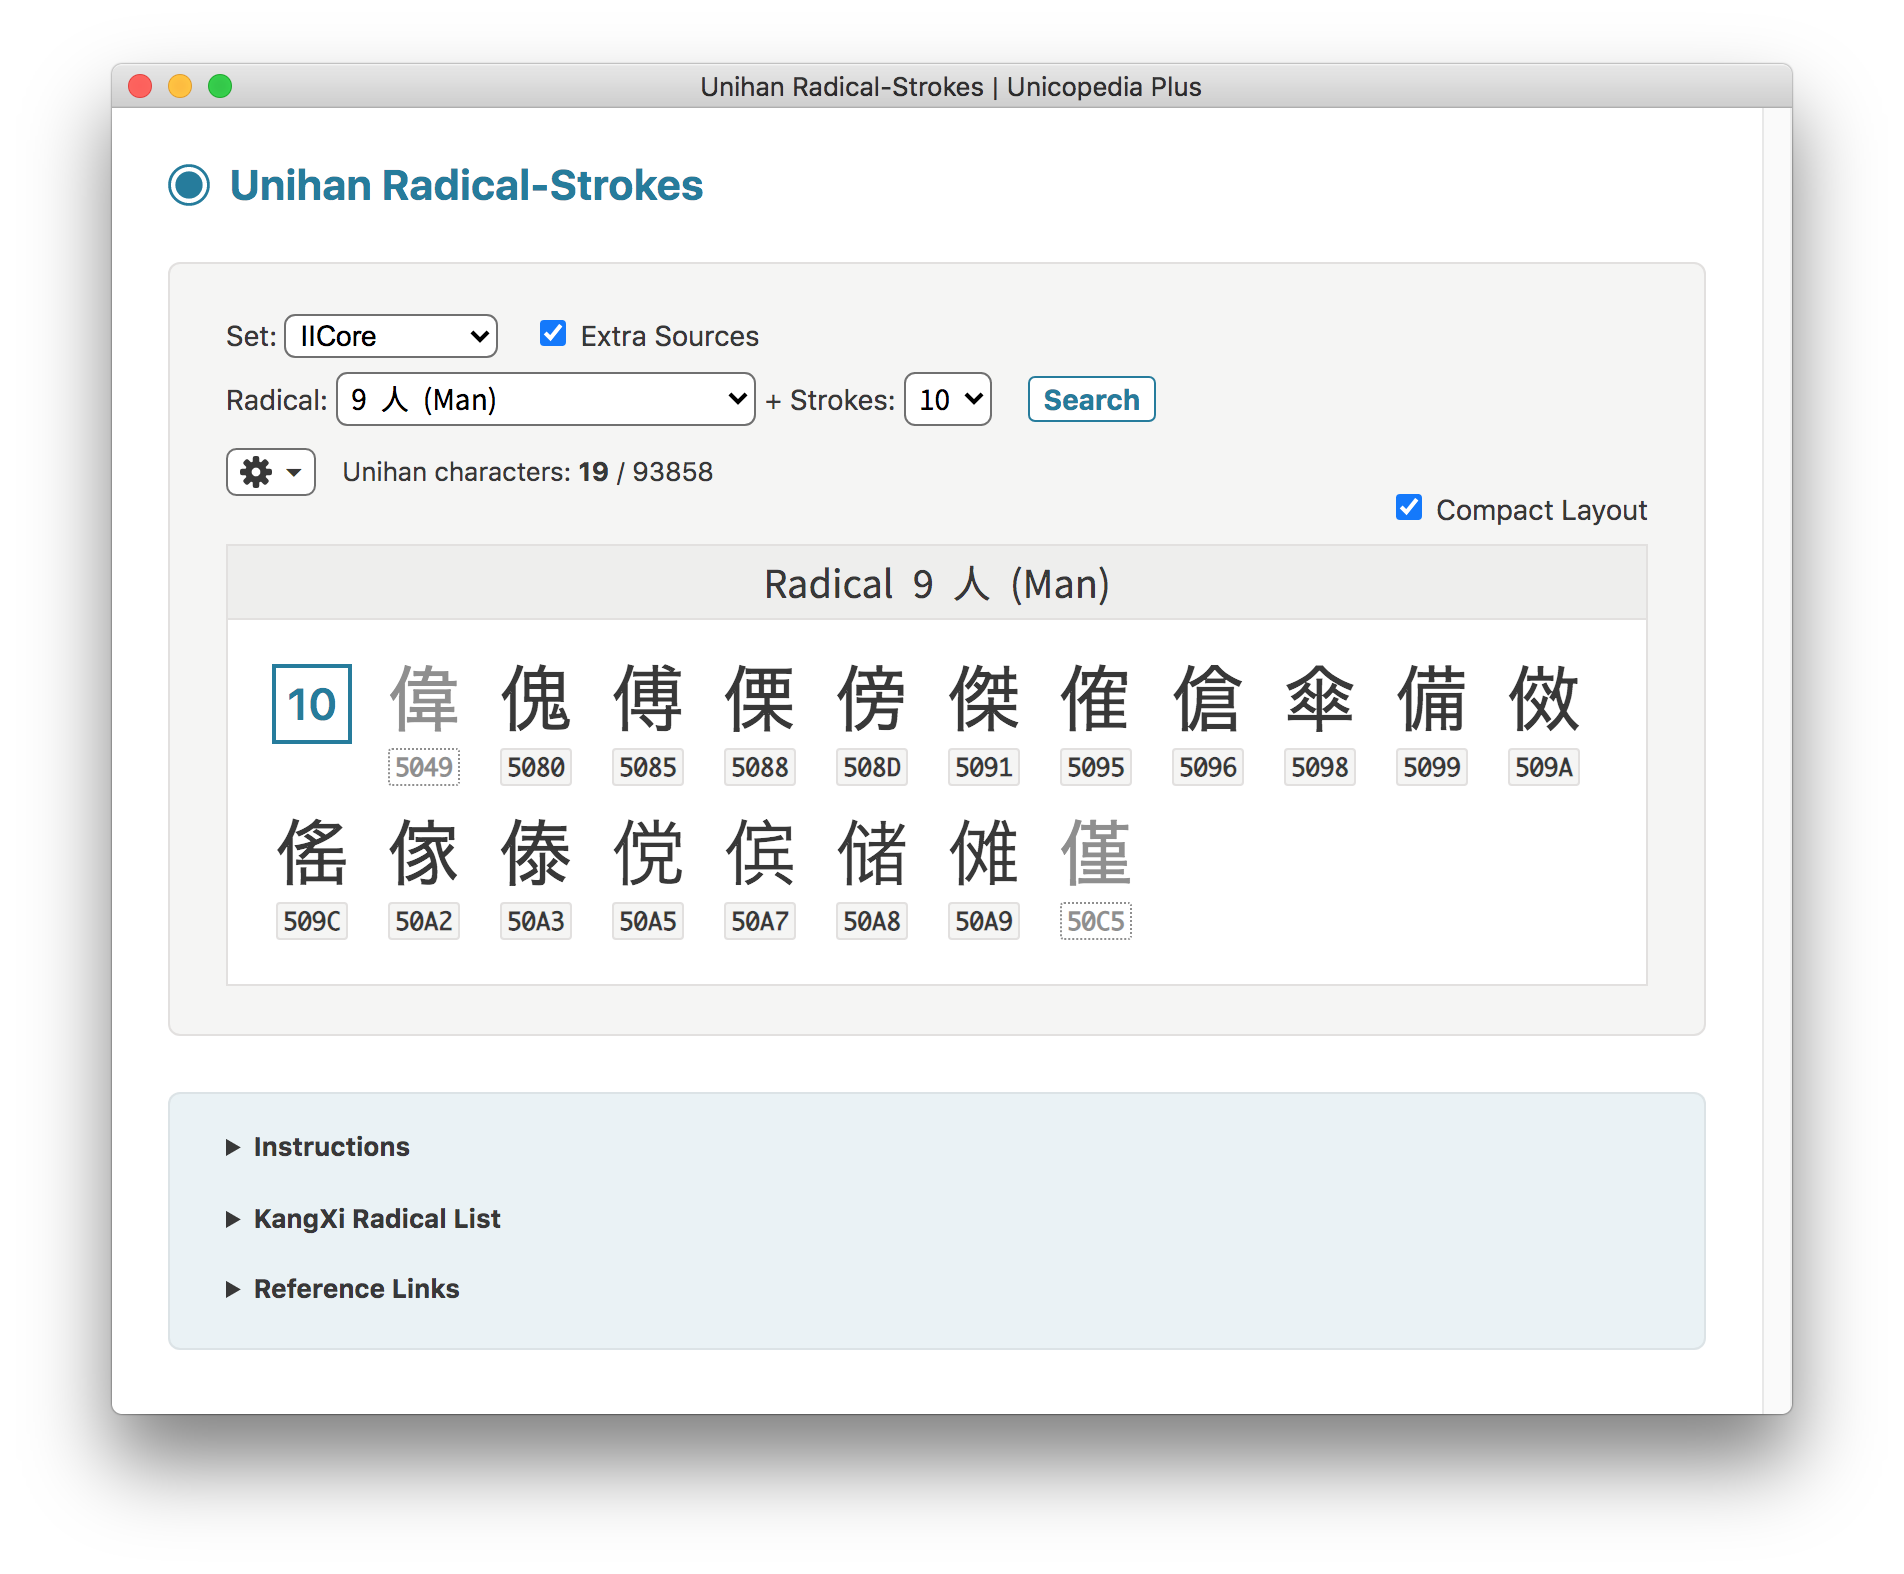
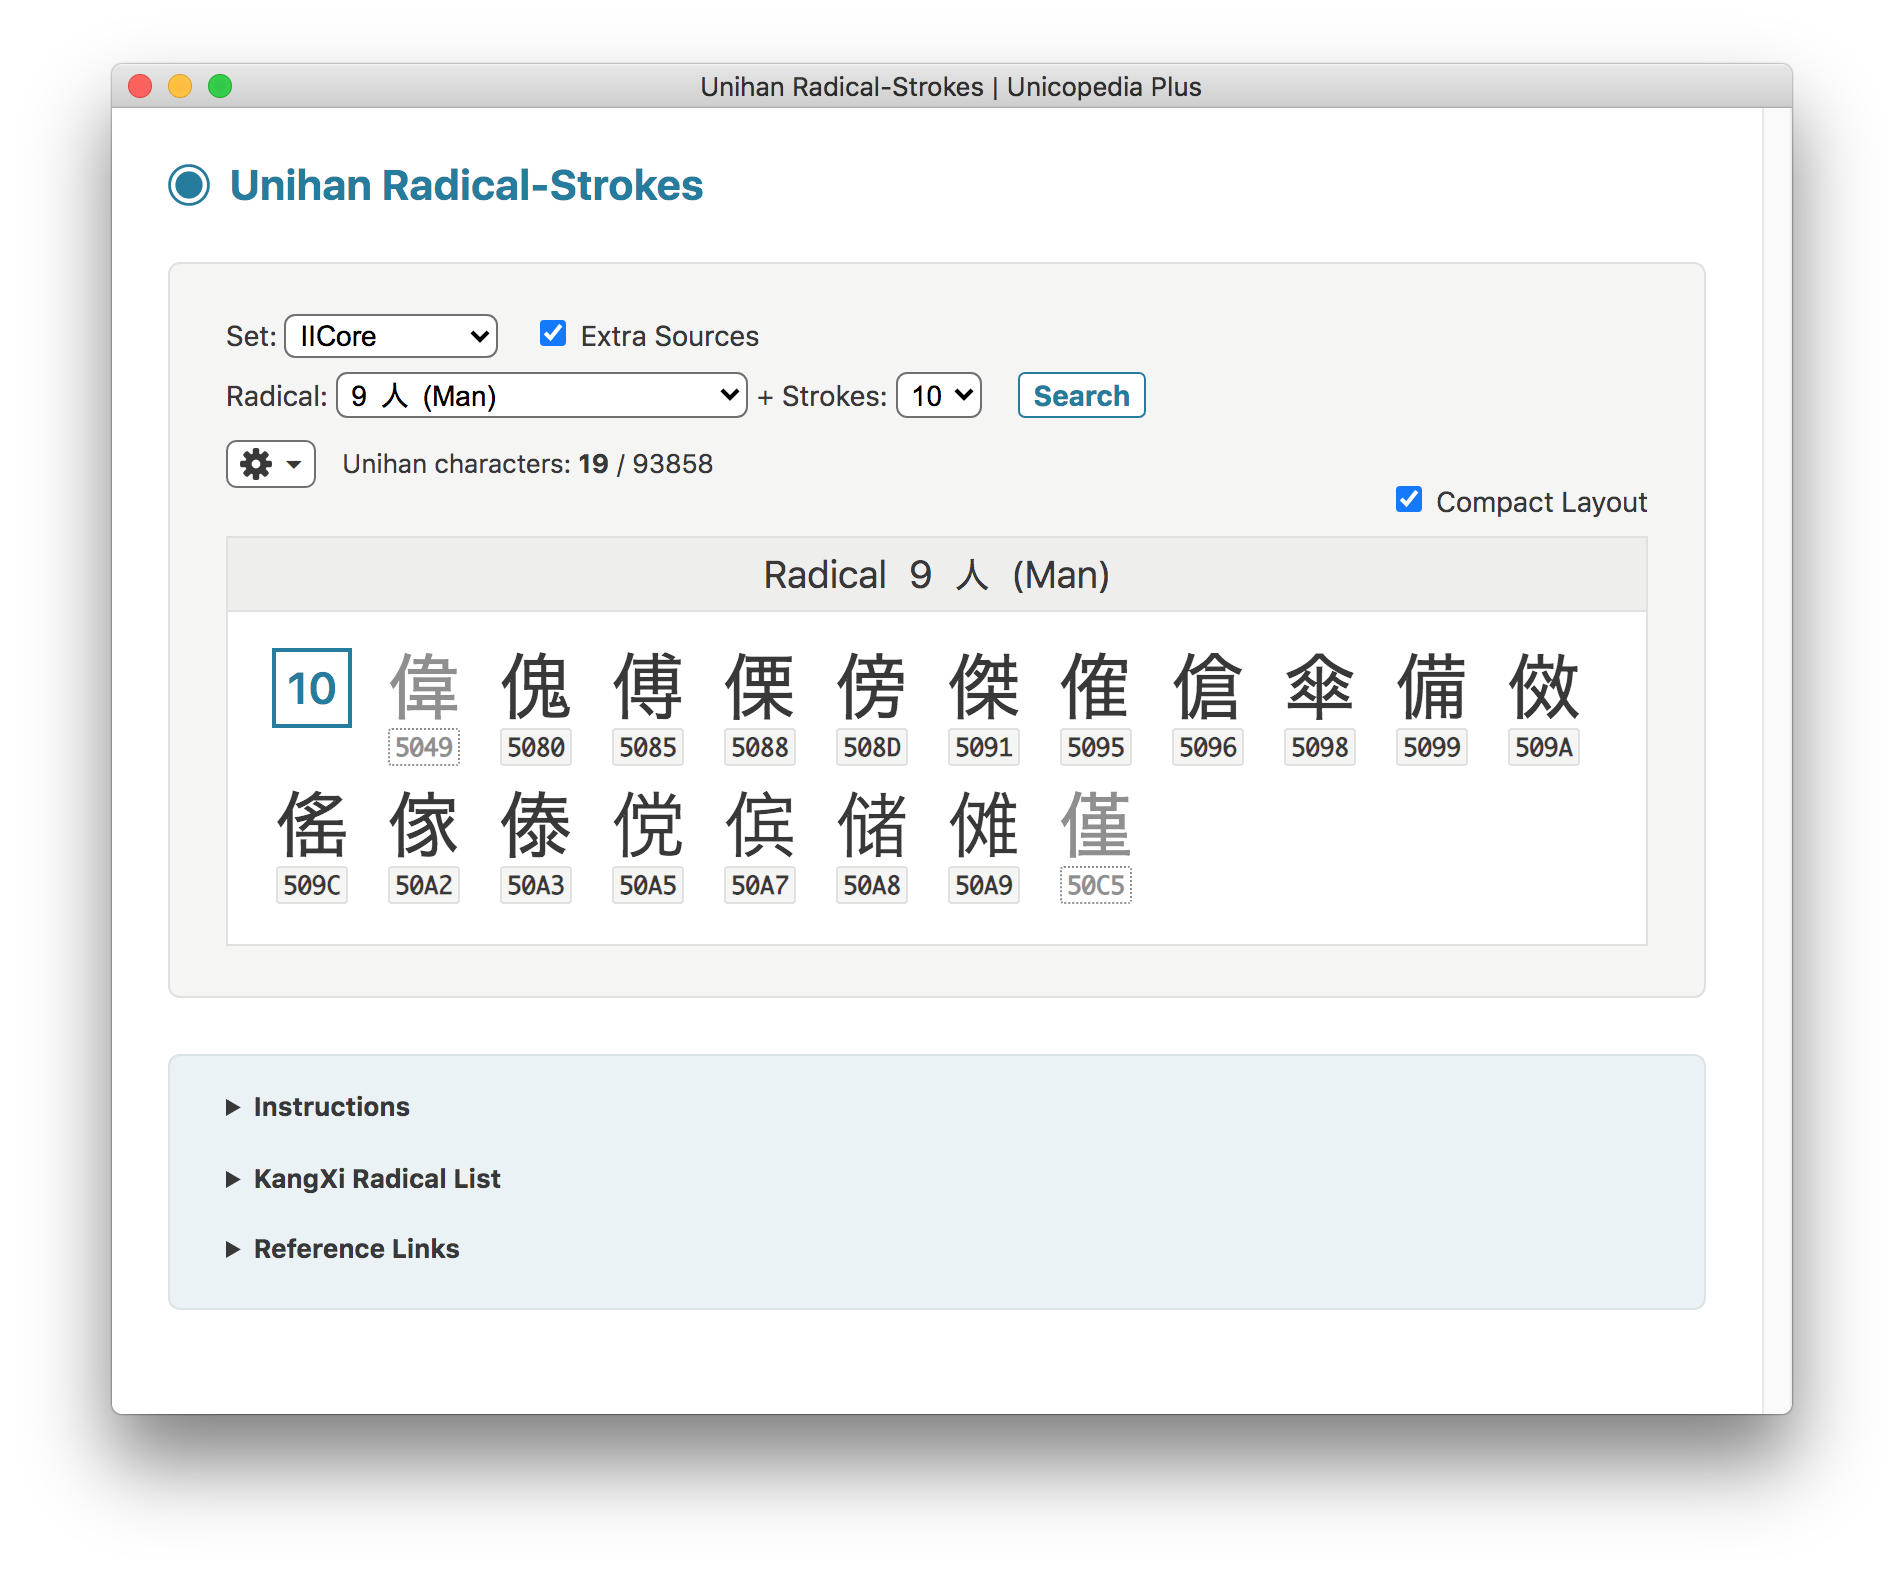
Updated app to 10.4.1

diff --git a/renderer/units/Unihan Variants/import.html b/renderer/units/Unihan Variants/import.html
@@ -39,9 +39,9 @@
                 <li>The <strong>Unihan Variants</strong> utility displays all the variants of a given Unihan character.</li>
                 <li>Any Unihan character can be entered in the <kbd>Unihan</kbd> input field either as a character or a code point. Click on the <kbd>Look Up</kbd> button to display the variants.</li>
                 <li>Previously looked up characters are kept in a history stack; use the <kbd>Alt</kbd>+<kbd>↑</kbd> and <kbd>Alt</kbd>+<kbd>↓</kbd> keyboard shortcuts to navigate through them up and down inside the input field. Alternatively, you can also use the <kbd>Lookup&nbsp;History&nbsp;▾</kbd> pop-up menu to automatically look up a specific character.</li>
-                <li>Click the <kbd>Extra Variants</kbd> checkbox to include the Yasuoka variants as well; otherwise, only the standard Unihan variants are listed.</li>
-                <li>Click the <kbd>Detailed Relations</kbd> checkbox to make use of a directed labeled graph to display variant relations; otherwise, a basic undirected graph is used instead.</li>
-                <li>Click the <kbd>Code Points</kbd> checkbox to display as well the code point of each Unihan character of the graph.</li>
+                <li>Click on the <kbd>Extra Variants</kbd> checkbox to include the Yasuoka variants as well; otherwise, only the standard Unihan variants are listed.</li>
+                <li>Click on the <kbd>Detailed Relations</kbd> checkbox to make use of a directed labeled graph to display variant relations; otherwise, a basic undirected graph is used instead.</li>
+                <li>Click on the <kbd>Code Points</kbd> checkbox to display as well the code point of each Unihan character of the graph.</li>
                 <li>The different variant relations are indicated using the following labels:
                     <ul>
                         <li><code>Compat.</code>: reverse link of <code>Unified</code></li>
@@ -57,7 +57,7 @@
                         <li><code>Yasuoka</code>: characters drawn from the "Variants table for Unicode" data file <a title="http://kanji.zinbun.kyoto-u.ac.jp/~yasuoka/ftp/CJKtable/UniVariants.Z" href="http://kanji.zinbun.kyoto-u.ac.jp/~yasuoka/ftp/CJKtable/UniVariants.Z">UniVariants.txt</a> provided by Prof. <a title="http://kanji.zinbun.kyoto-u.ac.jp/~yasuoka/" href="http://kanji.zinbun.kyoto-u.ac.jp/~yasuoka/">Kōichi Yasuoka</a></li>
                     </ul>
                 </li>
-                <li>Click the <kbd>Save...</kbd> button to save the current graph as a SVG file.</li>
+                <li>Click on the <kbd>Save...</kbd> button to save the current graph as a SVG file.</li>
                 <li>Notes:
                     <ul>
                         <li>Hovering over any circled Unihan character of the graph displays a tooltip with basic information: code point, age, set, ideograph status, compatibility source.</li>

diff --git a/renderer/units/Unihan Radical-Strokes/import.css b/renderer/units/Unihan Radical-Strokes/import.css
@@ -26,12 +26,6 @@
     margin-right: 1.25em;
 }
 
-#unihan-radical-strokes-unit .radical-select,
-#unihan-radical-strokes-unit .strokes-select
-{
-    font-family: "Sans CJK TC";
-}
-
 #unihan-radical-strokes-unit .results
 {
     text-align: left;
@@ -88,7 +82,6 @@
 #unihan-radical-strokes-unit .rs-data-chart .title-header
 {
     text-align: center;
-    font-family: "Sans CJK TC";
     font-size: 19px;
     line-height: 1.5em;
     font-weight: normal;
@@ -106,7 +99,7 @@
     font-weight: 600;
     background-color: white;
     color: var(--color-accent);
-    padding: 0.25em 0.75em;
+    padding: 6px 12px;
 }
 
 #unihan-radical-strokes-unit .rs-data-chart .strokes-data .long-title
@@ -149,7 +142,7 @@
     border: 2px solid var(--color-accent);
     /* border-radius: 50%; */
     padding: 0;
-    margin: 8px;
+    margin: 4px 8px;
     width: 40px;
     height: 40px;
 }
@@ -178,7 +171,7 @@
     display: inline-flex;
     flex-direction: column;
     align-items: center;
-    margin: 8px 4px;
+    margin: 6px 4px;
     width: 48px;
 }
 
@@ -188,7 +181,7 @@
     font-size: 36px;
     text-align: center;
     line-height: 1em;
-    margin-bottom: 4px;
+    /* margin-bottom: 1px; */
     border: 1px solid transparent;
 }
 
@@ -257,7 +250,6 @@
 
 #unihan-radical-strokes-unit .radicals-table td
 {
-    font-family: "Sans CJK TC";
     font-size: 14px;
     padding: 0.25em 0.5em;
     white-space: nowrap;

diff --git a/renderer/units/CJK Font Variants/import.js b/renderer/units/CJK Font Variants/import.js
@@ -502,6 +502,11 @@ module.exports.start = function (context)
         }
     );
     //
+    for (let option of fontWeightSelect.querySelectorAll ('option'))
+    {
+        option.title = `Weight: ${option.value}`;
+    }
+    //
     fontWeightSelect.value = prefs.fontWeightSelect;
     if (fontWeightSelect.selectedIndex < 0) // -1: no element is selected
     {

diff --git a/renderer/renderer.js b/renderer/renderer.js
@@ -590,7 +590,7 @@ ipcRenderer.on ('scroll-to-bottom', () => { scroll.toBottom (unitElements[curren
 // Adapted from https://github.com/ten1seven/track-focus
 (function (body)
 {
-    let mouseFocus;
+    let mouseFocus = true;
     let bindEvents = function ()
     {
         body.addEventListener ('keydown', (event) => { mouseFocus = false; });

diff --git a/README.md b/README.md
@@ -443,9 +443,9 @@ The following utilities are currently available:
 - The **Unihan Variants** utility displays all the variants of a given Unihan character.
 - Any Unihan character can be entered in the <kbd>Unihan</kbd> input field either as a character or a code point. Click on the <kbd>Look Up</kbd> button to display the variants.
 - Previously looked up characters are kept in a history stack; use the <kbd>Alt</kbd>+<kbd>↑</kbd> and <kbd>Alt</kbd>+<kbd>↓</kbd> keyboard shortcuts to navigate through them up and down inside the input field. Alternatively, you can also use the <kbd>Lookup&nbsp;History&nbsp;▾</kbd> pop-up menu to automatically look up a specific character.
-- Click the <kbd>Extra Variants</kbd> checkbox to include the Yasuoka variants as well; otherwise, only the standard Unihan variants are listed.
-- Click the <kbd>Detailed Relations</kbd> checkbox to make use of a directed labeled graph to display variant relations; otherwise, a basic undirected graph is used instead.
-- Click the <kbd>Code Points</kbd> checkbox to display as well the code point of each Unihan character of the graph.
+- Click on the <kbd>Extra Variants</kbd> checkbox to include the Yasuoka variants as well; otherwise, only the standard Unihan variants are listed.
+- Click on the <kbd>Detailed Relations</kbd> checkbox to make use of a directed labeled graph to display variant relations; otherwise, a basic undirected graph is used instead.
+- Click on the <kbd>Code Points</kbd> checkbox to display as well the code point of each Unihan character of the graph.
 - The different variant relations are indicated using the following labels:
     - `Compat.`: reverse link of `Unified`
     - `Kyūjitai`: Japanese traditional character variants (旧字体)
@@ -458,7 +458,7 @@ The following utilities are currently available:
     - `Traditional`: characters listed under the *kTraditionalVariant* Unihan tag
     - `Unified`: characters listed under the *kCompatibilityVariant* Unihan tag
     - `Yasuoka`: characters drawn from the "Variants table for Unicode" data file <a title="http://kanji.zinbun.kyoto-u.ac.jp/~yasuoka/ftp/CJKtable/UniVariants.Z" href="http://kanji.zinbun.kyoto-u.ac.jp/~yasuoka/ftp/CJKtable/UniVariants.Z">UniVariants.txt</a> provided by Prof. <a title="http://kanji.zinbun.kyoto-u.ac.jp/~yasuoka/" href="http://kanji.zinbun.kyoto-u.ac.jp/~yasuoka/">Kōichi Yasuoka</a>
-- Click the <kbd>Save...</kbd> button to save the current graph as a SVG file.
+- Click on the <kbd>Save...</kbd> button to save the current graph as a SVG file.
 - Notes:
     - Hovering over any circled Unihan character of the graph displays a tooltip with basic information: code point, age, set, ideograph status, compatibility source.
     - The currently looked up Unihan character appears in a bolder circle; clicking on any other circled variant character lets you "navigate" through all the variants.

diff --git a/CHANGES.md b/CHANGES.md
@@ -2,6 +2,11 @@
 
 This project adheres to [Semantic Versioning](https://semver.org/).
 
+## 10.4.1
+
+- Updated `Electron` to version `13.1.7`.
+- Updated `Electron Packager` to version `15.3.0`.
+
 ## 10.4.0
 
 - Used set of `Source Han Sans` variable fonts version `2.004`.
